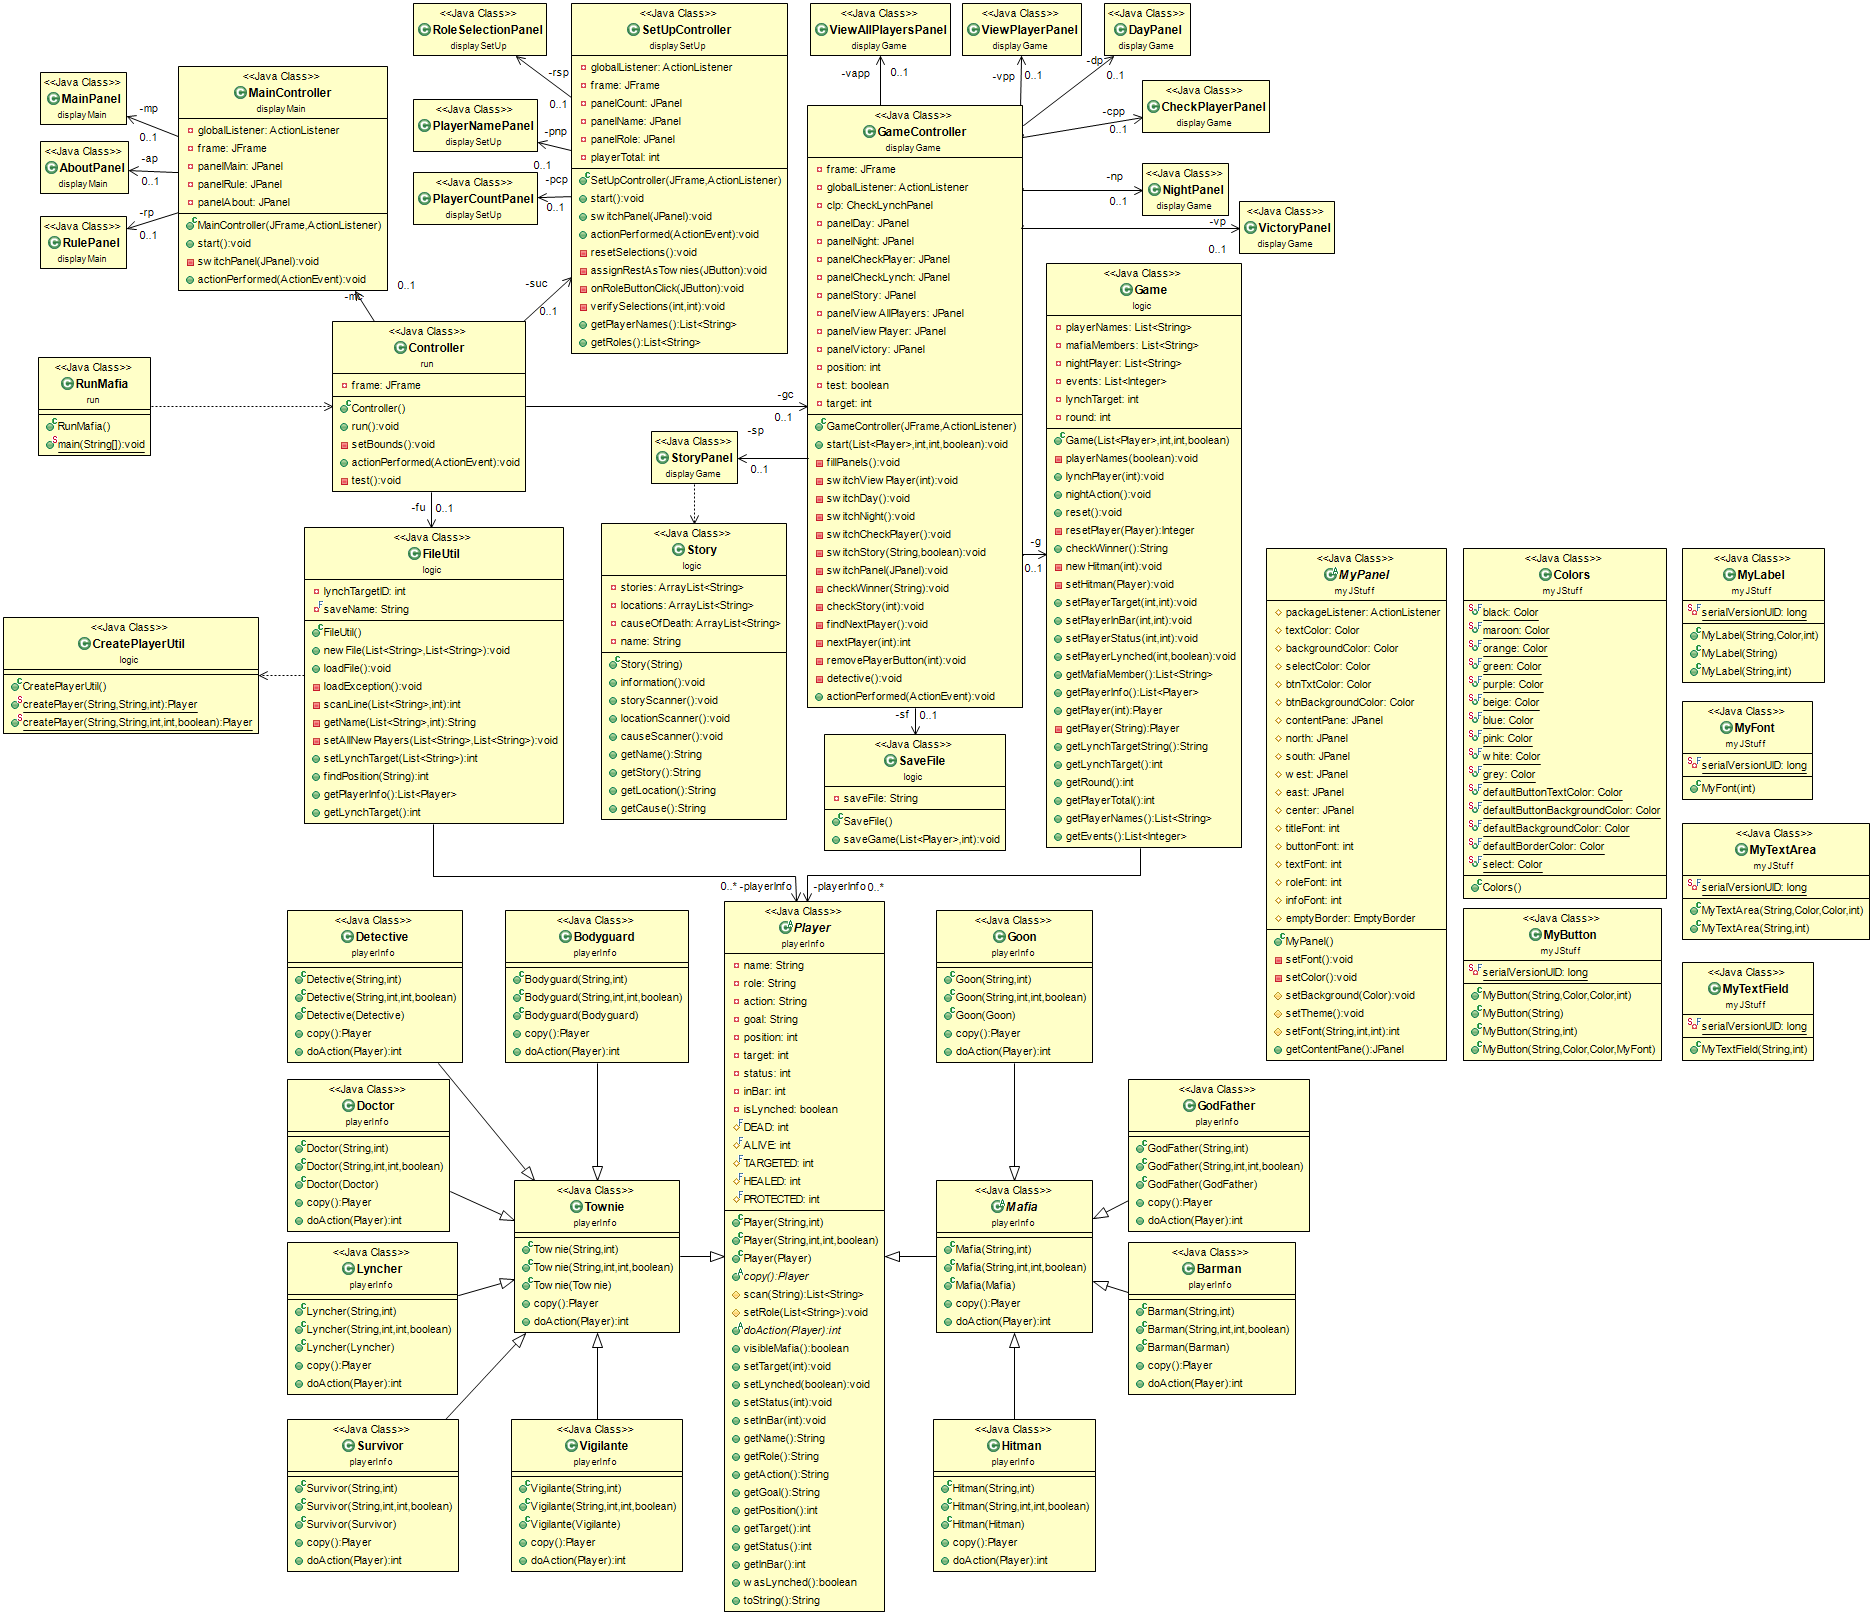
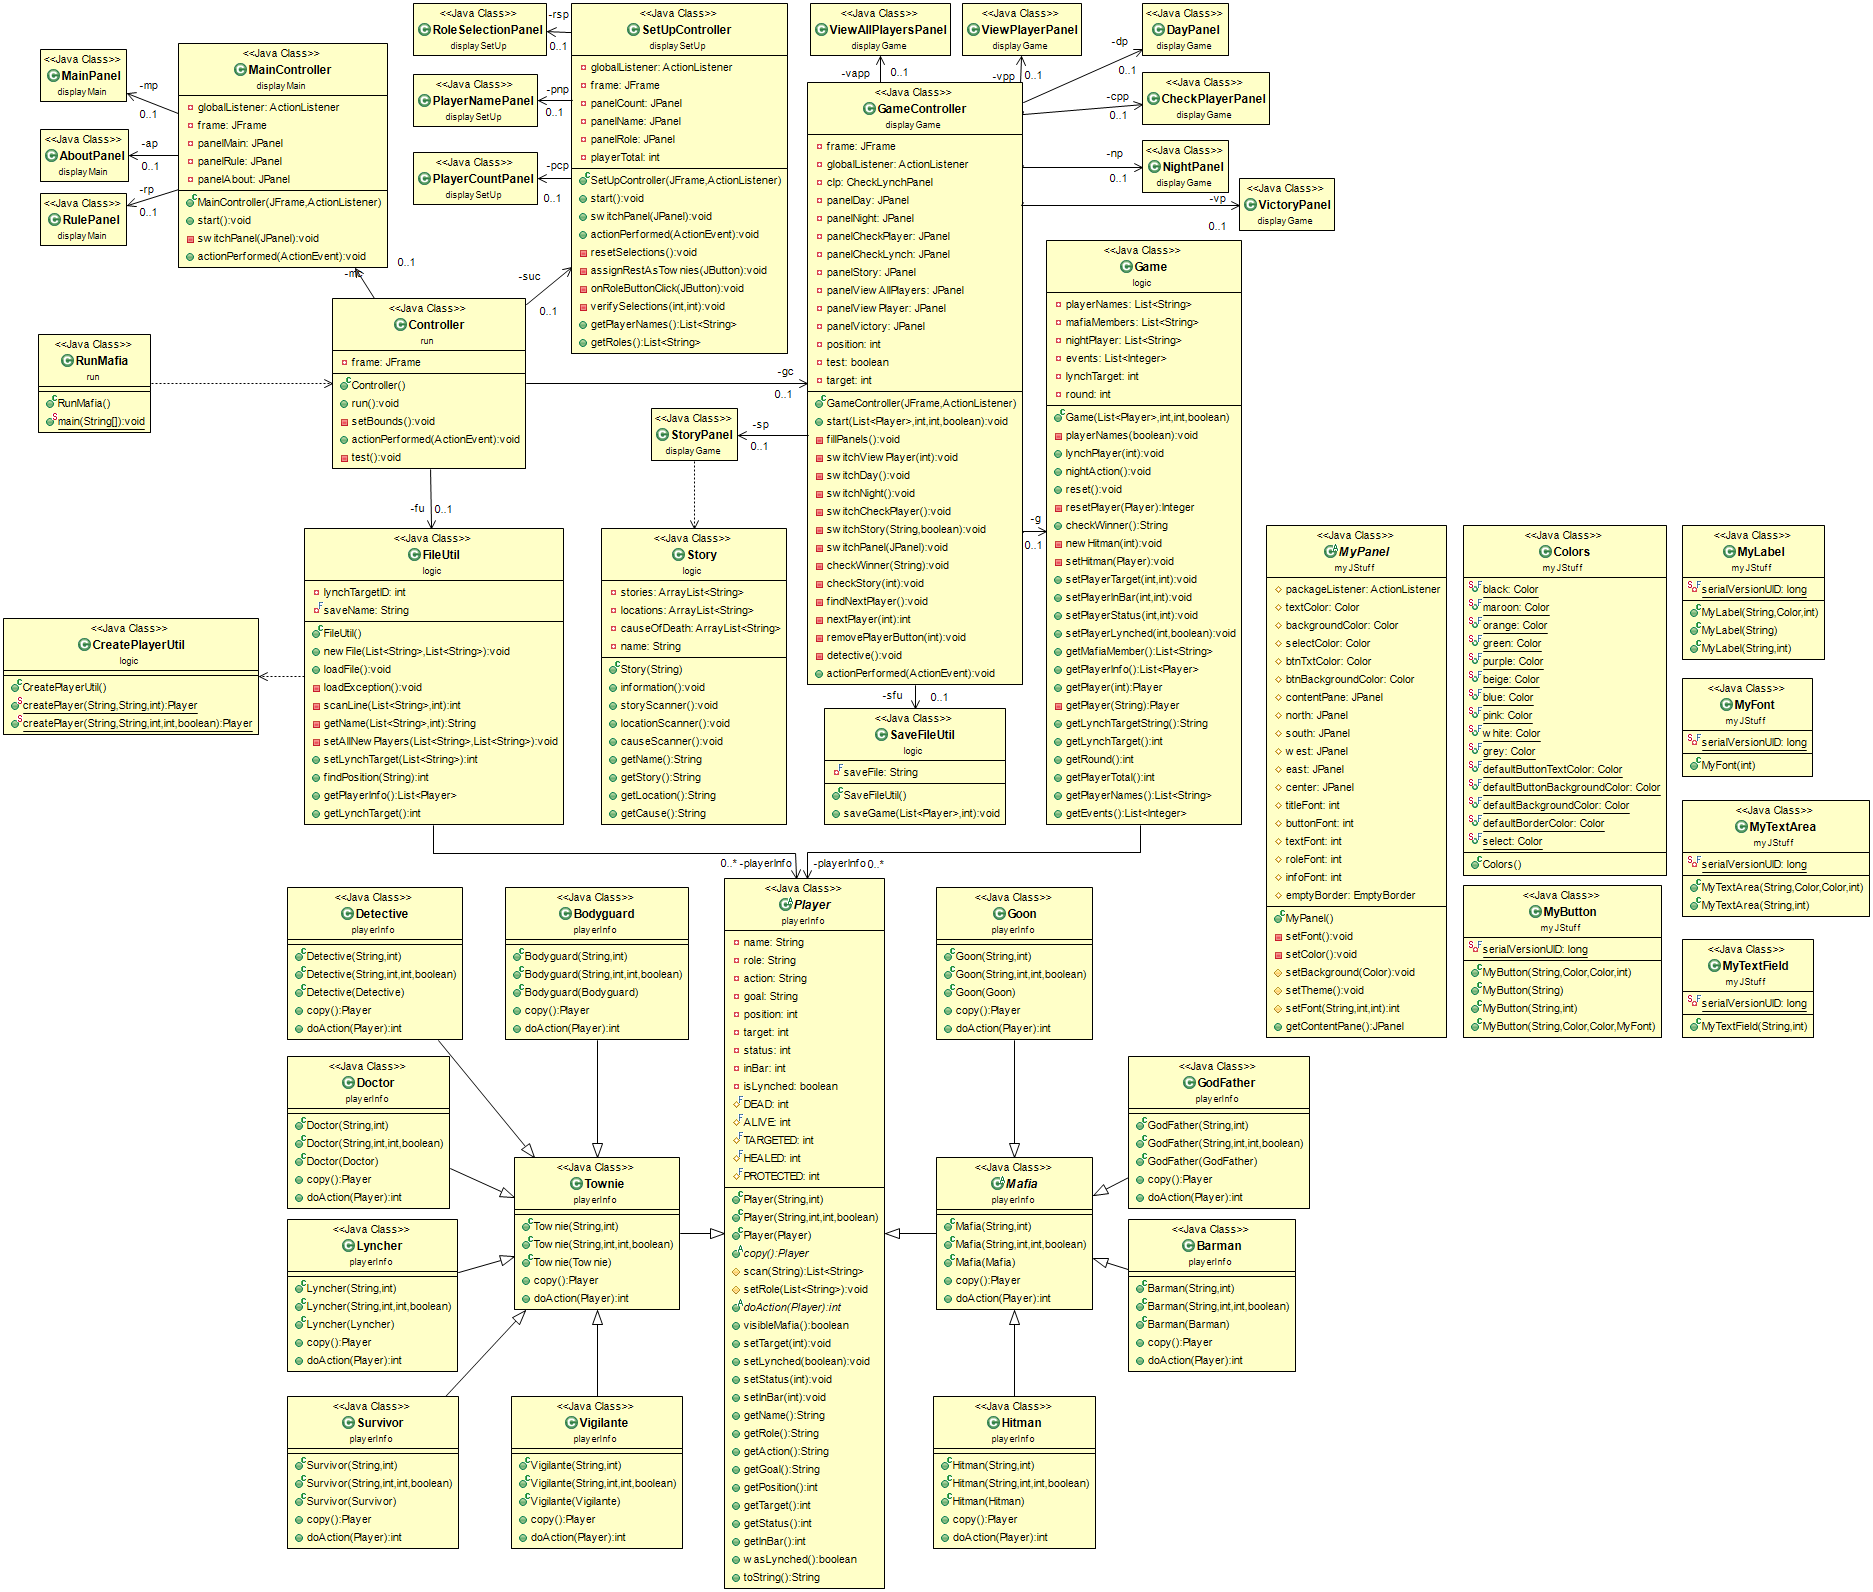
Fixed Diagram

Changed region(s): [[0.0, 0.0, 1.0, 1.0], [0.4955, 0.8618, 0.5884, 0.9849], [0.2787, 0.8618, 0.3406, 0.9849]]

diff --git a/src/displayGame/GameController.java b/src/displayGame/GameController.java
@@ -25,7 +25,7 @@ public class GameController implements ActionListener{
 	
 	private ActionListener globalListener;
 	
-	private SaveFile sf;
+	private SaveFileUtil sfu;
 	
 	private Game g;
 	private DayPanel dp;
@@ -77,7 +77,7 @@ public class GameController implements ActionListener{
 		vpp = new ViewPlayerPanel(this,g.getMafiaMember());
 		vp = new VictoryPanel(globalListener);
 		
-		sf = new SaveFile();
+		sfu = new SaveFileUtil();
 		
 		//Creates the buttons of all of the players in the game
 		fillPanels();
@@ -125,7 +125,7 @@ public class GameController implements ActionListener{
 	private void switchDay(){
 		dp.resetButtonColor();;
 		target = -1;
-		sf.saveGame(g.getPlayerInfo(), g.getLynchTarget());
+		sfu.saveGame(g.getPlayerInfo(), g.getLynchTarget());
 		switchPanel(panelDay);
 	}
 
@@ -240,7 +240,7 @@ public class GameController implements ActionListener{
 	private int nextPlayer(int position){
 		System.out.print("Finding next player: ");
 		
-		if(position>=g.getPlayerInfo().size()){//If position is at the end of the list
+		if(position>=g.getPlayerTotal()){//If position is at the end of the list
 			System.out.println("End of list");
 			return -1;
 		}else if(g.getPlayer(position).getStatus()==0){//If the player is dead, find the next one

diff --git a/src/logic/Game.java b/src/logic/Game.java
@@ -301,9 +301,8 @@ public class Game{
 		if(i>=0&&i<playerInfo.size()){
 			return playerInfo.get(i).copy();
 		}else{
-			return null; 
+			return new Townie("No player "+i,-1); 
 		}
-		
 	}
 	/**
 	 * Returns a copy of the current player
@@ -311,14 +310,12 @@ public class Game{
 	 * @return
 	 */
 	private Player getPlayer(String s){
-		Player player = null;
 		for(Player p: playerInfo){
 			if(p.getName().contains(s) || p.getRole().contains(s)){
-				player = p.copy();
-				break;
+				return p.copy();
 			}
 		}
-		return player;
+		return new Townie("No player or Role "+s,-1);
 	}
 	
 	public String getLynchTargetString(){

diff --git a/src/logic/SaveFileUtil.java b/src/logic/SaveFileUtil.java
@@ -6,13 +6,9 @@ import java.util.List;
 
 import playerInfo.Player;
 
-public class SaveFile {
+public class SaveFileUtil {
 	
-	private String saveFile = "data/saveGame.txt";
-	
-	public SaveFile(){
-		
-	}
+	private final String saveFile = "data/saveGame.txt";
 	
 	public void saveGame(List<Player> playerInfo, int lynchTarget){
 		try(PrintWriter pw = new PrintWriter(saveFile)) {
